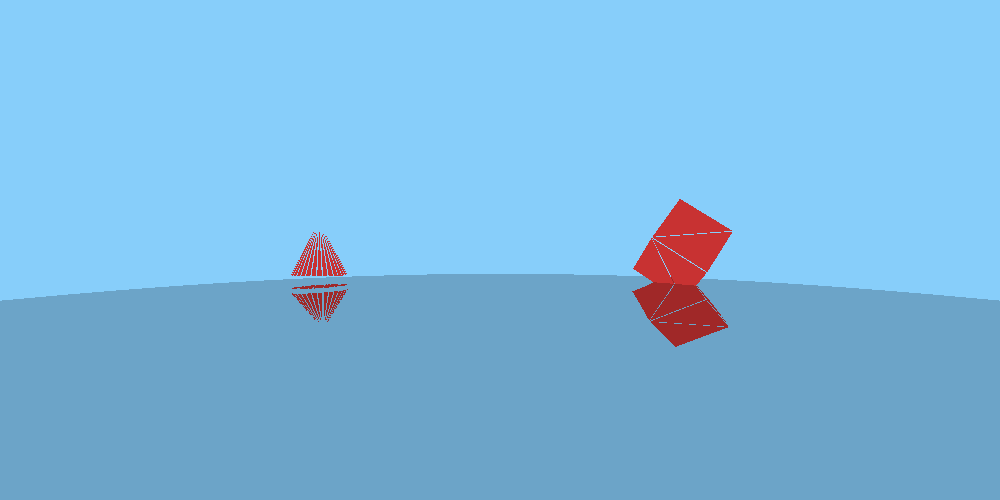
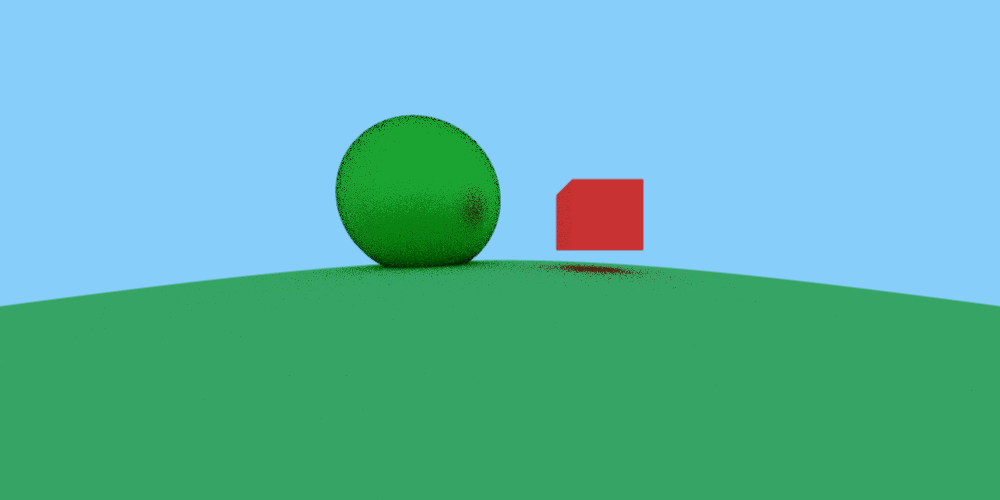
Normals extracted from obj file but mesh still does not scatter rays correctly + added fuzz to metal material

diff --git a/IK_Raytracer/IK_Raytracer/IK_Raytracer.cpp b/IK_Raytracer/IK_Raytracer/IK_Raytracer.cpp
@@ -26,7 +26,7 @@ int main()
     Image* perspective = new Image(scrWidth, scrHeight, 3);
 
     // Camera and rays settings
-    float fov = 45.0f;
+    float fov = 90.0f;
     Camera* cam = new Camera(vec3(0, 0, 10), vec3(0, 0, -1000), vec3(0, -1, 0), fov, float(scrWidth)/float(scrHeight));
 
     float pixelWidth = 2.0f / float(scrWidth);
@@ -41,12 +41,6 @@ int main()
     // Vector of hitable objects
     std::vector<Hitable*> hitables;
 
-    // Parser object which is used to assign vertices and indices of object to those vertices and indices given below
-    ObjParser parser;
-    std::vector<vec3> vertices, indices;
-
-    // Assigning vertices and indices;
-    parser.ParseFile("Cone.obj", vertices, indices);
 
     PointLight* point = new PointLight();
     point->location = vec3(0, 0, 0);
@@ -55,22 +49,31 @@ int main()
     point->constAttenuation = 3.0;
     point->quadAttenuation = 0.0001;
 
+    // Parser object which is used to assign vertices and indices of object to those vertices and indices given below
+    ObjParser parser;
+    std::vector<vec3> vertices, indices, normals, normalsFaces;
+
+    // Assigning vertices and indices;
+    parser.ParseFile("cubeBlend.obj", vertices, indices, normals, normalsFaces);
     // Mesh made from parsed obj file
-    Mesh* cube = new Mesh(vertices, indices, 0.5f, vec3(3, 0, 0), new Metal(vec3(0.8, 0.6, 0.2))); // 1. vertices of object 2. indices of object 3. scale 4. position
+    Mesh* cube = new Mesh(vertices, indices, normals, normalsFaces, 1.0f, vec3(-3, 1, 2), new Metal(vec3(0.8, 0.8, 0.8), 0.7)); // 1. vertices of object 2. indices of object 3. scale 4. position
     cube->addToWorld(&hitables);
     vertices.clear();
     indices.clear();
 
     // Second object creation:
-    parser.ParseFile("cone.obj", vertices, indices);
+    /*parser.ParseFile("cone.obj", vertices, indices);
 
     Mesh* cone = new Mesh(vertices, indices, 0.5f, vec3(-3, 0, 0), new Metal(vec3(0.8, 0.8, 0.8)));
     cone->addToWorld(&hitables);
     vertices.clear();
-    indices.clear();
+    indices.clear();*/
+
+    Hitable* sphere = new Sphere(vec3(3, 2, 0), 3, vec3(0, 0, 0), new Metal(vec3(0.2, 0.8, 0.2), 0.7));
+    hitables.push_back(sphere);
  
     // green sphere which simulates ground
-    Hitable* ground = new Sphere(vec3(0, -100.5, -1), 100, vec3(0, 154, 23), new Metal(vec3(0.8, 0.8, 0.8)));
+    Hitable* ground = new Sphere(vec3(0, -100.5, -1), 100, vec3(0, 154, 23), new Lambertian(vec3(0.4, 0.8, 0.4)));
     hitables.push_back(ground);
     std::cout << hitables.size() << std::endl;
     
@@ -96,7 +99,7 @@ int main()
             float vMin = v - (pixelHeight / 2);
             float vMax = v + (pixelHeight / 2);
 
-            if (isAntyalia)
+            if (isAntyalia == true)
                 finalColor = finalColor.Antialiasing(world, cam, fov, fov / 45.0f, false,
                     uMin, uMax, vMin, vMax, i, j, 0.50f,
                     std::vector<LightIntensity*>{nullptr, nullptr, nullptr, nullptr, nullptr});

diff --git a/IK_Raytracer/IK_Raytracer/ObjParser.cpp b/IK_Raytracer/IK_Raytracer/ObjParser.cpp
@@ -5,7 +5,7 @@ ObjParser::ObjParser()
 
 }
 
-void ObjParser::ParseFile(const std::string& path, std::vector<vec3>& vertices, std::vector<vec3>& faces)
+void ObjParser::ParseFile(const std::string& path, std::vector<vec3>& vertices, std::vector<vec3>& faces, std::vector<vec3>& normals, std::vector<vec3>& normalsFaces)
 {
     std::ifstream ifs(path);
     if (!ifs.is_open()) {
@@ -20,27 +20,36 @@ void ObjParser::ParseFile(const std::string& path, std::vector<vec3>& vertices, 
             ifs >> x >> y >> z;
             vertices.emplace_back(x, y, z);
         }
+        else if (buffer == "vn")
+        {
+            // format: vn x y z
+            float x, y, z;
+            ifs >> x >> y >> z;
+            normals.emplace_back(x, y, z);
+        }
         else if (buffer == "f") {
-            int x, y, z, t;
+            int x, y, z, n, t;
+            int nX, nY, nZ;
             std::string line;
             getline(ifs, line);
             if (line.find('/') != std::string::npos && (std::count(line.begin(), line.end(), '/') == 6 || std::count(line.begin(), line.end(), '/') == 8)) {
                 // format: f v1/vt1/vn1 v2/vt2/vn2 v3/vt3/vn3
-                sscanf_s(line.c_str(), " %d/%d/%d %d/%d/%d %d/%d/%d\n", &x, &t, &t, &y, &t, &t, &z, &t, &t);
+                sscanf_s(line.c_str(), " %d/%d/%d %d/%d/%d %d/%d/%d\n", &x, &t, &nX, &y, &t, &nY, &z, &t, &nZ);
             }
             else if (line.find('/') != std::string::npos && (std::count(line.begin(), line.end(), '/') == 3 || std::count(line.begin(), line.end(), '/') == 4)) {
                 // format: f v1/vn1 v2/vn2 v3/vn3
-                sscanf_s(line.c_str(), " %d/%d %d/%d %d/%d\n", &x, &t, &y, &t, &z, &t);
+                sscanf_s(line.c_str(), " %d/%d %d/%d %d/%d\n", &x, &nX, &y, &nY, &z, &nZ);
             }
             else if (line.find("//") != std::string::npos && (std::count(line.begin(), line.end(), '/') == 6 || std::count(line.begin(), line.end(), '/') == 8)) {
                 // format: f v1//vn1 v2//vn2 v3//vn3
-                sscanf_s(line.c_str(), " %d//%d %d//%d %d//%d\n", &x, &t, &y, &t, &z, &t);
+                sscanf_s(line.c_str(), " %d//%d %d//%d %d//%d\n", &x, &nX, &y, &nY, &z, &nZ);
             }
             else {
                 // format: f v1 v2 v3
                 sscanf_s(line.c_str(), " %d %d %d\n", &x, &y, &z);
             }
             faces.emplace_back(x - 1, y - 1, z - 1);
+            normalsFaces.emplace_back(nX - 1, nY - 1, nZ - 1);
         }
     }
     ifs.close();

diff --git a/IK_Raytracer/IK_Raytracer/LightIntensity.cpp b/IK_Raytracer/IK_Raytracer/LightIntensity.cpp
@@ -211,7 +211,7 @@ LightIntensity operator*(float num, LightIntensity& li)
 LightIntensity LightIntensity::GetColorFromRay(const Ray& r, Hitable* world, int depth)
 {
 	hitRecord rec;
-	if (world->hit(r, 0.01, 100, rec) == true) // (r, 0.0, 100, rec) // change second paremetere (0.01) to sth like 0.00001 to fix mesh but fuck up sphere
+	if (world->hit(r, 0.001, 100, rec)) // (r, 0.0, 100, rec) // change second paremetere (0.01) to sth like 0.00001 to fix mesh but fuck up sphere
 	{
 		Ray scattered;
 		vec3 attenuation;
@@ -221,26 +221,23 @@ LightIntensity LightIntensity::GetColorFromRay(const Ray& r, Hitable* world, int
 		}
 		else
 		{
-			return LightIntensity(200, 50, 50);
+			//return LightIntensity(0, 0, 0);
+			return LightIntensity(rec.hitColor.e[0], rec.hitColor.e[1], rec.hitColor.e[2]);
 		}
-		//return LightIntensity(rec.hitColor.e[0], rec.hitColor.e[1], rec.hitColor.e[2]);
-		// 
+		
 		// Return light sources calculated color
-		//LightIntensity result;
-		//for (Light* l : lightArray)
-		//{
-		//	vec3 res = l->getDiffuse(vec3(0.0f, 0.0f, 0.0f), rec.p);
-		//	result = LightIntensity(res.x(), res.y(), res.z());
-		//}
-		//return LightIntensity(result.getRed() + rec.hitColor.e[0], result.getGreen() + rec.hitColor.e[1], result.getBlue() + rec.hitColor.e[2]);
+		LightIntensity result;
+		/*for (Light* l : lightArray)
+		{
+			vec3 res = l->getDiffuse(vec3(0.0f, 0.0f, 0.0f), rec.p);
+			result = LightIntensity(res.x(), res.y(), res.z());
+		}
+		return LightIntensity(std::sqrt(result.getRed() + rec.hitColor.e[0]), 
+							  std::sqrt(result.getGreen() + rec.hitColor.e[1]), 
+							  std::sqrt(result.getBlue() + rec.hitColor.e[2]));*/
 	}
 	else
 	{
-		/*vec3 unitDirection = unit_vector(r.direction());
-		float t = 0.5 * (unitDirection.y() + 1.0);
-		LightIntensity result = LightIntensity(1.0, 1.0, 1.0) * (1.0 - t) + LightIntensity(0.5, 0.7, 1.0) * t;
-		return LightIntensity(result.getRed() * 255.99, result.getGreen() * 255.99, result.getBlue() * 255.99);*/
-
 		return LightIntensity(135, 206, 250);
 	}
 }

diff --git a/IK_Raytracer/IK_Raytracer/Triangle.h b/IK_Raytracer/IK_Raytracer/Triangle.h
@@ -10,6 +10,7 @@ class Triangle : public Hitable
 {
 public:
 	vec3 tA, tB, tC;
+	vec3 nX;
 	bool _hit = false;
 	vec3 color;
 
@@ -17,7 +18,12 @@ public:
 	Material* triangleMaterial;
 
 	Triangle() : tA(1, 0, 0), tB(0, 1, 0), tC(0, 0, 1){}
-	Triangle(const vec3 _a, const vec3 _b, const vec3 _c, vec3 col, Material* triMaterial) : tA(_a), tB(_b), tC(_c), color(col), triangleMaterial(triMaterial){}
+	Triangle(const vec3 _a, const vec3 _b, const vec3 _c, 
+			 const vec3 _nX,
+			 vec3 col, Material* triMaterial) 
+			: tA(_a), tB(_b), tC(_c), 
+			  nX(_nX), 
+			  color(col), triangleMaterial(triMaterial){}
 	~Triangle();
 
 	vec3 getTriangleNormal() const
@@ -36,6 +42,22 @@ public:
 		return normal;
 	}
 
+	virtual vec3 getNormalAt(vec3 point) const
+	{
+		vec3 normal = vec3(0, 0, 0);
+		vec3 CA(tC.e[0] - point.e[0],
+				tC.e[1] - point.e[1],
+				tC.e[2] - point.e[2]);
+
+		vec3 BA(tB.e[0] - point.e[0],
+				tB.e[1] - point.e[1],
+				tB.e[2] - point.e[2]);
+
+		normal = normalize(cross(CA, BA));
+
+		return normal;
+	}
+
 	double getTriangleDistance() const
 	{
 		vec3 normal = vec3(0, 0, 0);
@@ -47,13 +69,6 @@ public:
 		return distance;
 	}
 
-	virtual vec3 getNormalAt(vec3 point) const
-	{
-		vec3 normal = vec3(0, 0, 0);
-		normal = getTriangleNormal();
-
-		return normal;
-	}
 
 	bool hit(const Ray& ray, float tMin, float tMax, hitRecord& rec) const
 	{
@@ -122,7 +137,7 @@ public:
 				// inside triangle
 				rec.t = -1 * b / a;
 				rec.p = Q;
-				rec.normal = normal;
+				rec.normal = getNormalAt(Q);
 				rec.hitColor = color;
 				rec.materialPtr = triangleMaterial;
 

diff --git a/IK_Raytracer/IK_Raytracer/Mesh.cpp b/IK_Raytracer/IK_Raytracer/Mesh.cpp
@@ -1,9 +1,11 @@
 #include "Mesh.h"
 
-Mesh::Mesh(std::vector<vec3> meshVert, std::vector<vec3> meshIndi, float scl, vec3 pos, Material* mMaterial)
+Mesh::Mesh(std::vector<vec3> meshVert, std::vector<vec3> meshIndi, std::vector<vec3> meshNormals, std::vector<vec3> meshNormalsFaces, float scl, vec3 pos, Material* mMaterial)
 {
 	vertices = meshVert;
 	indices = meshIndi;
+	normals = meshNormals;
+	normalsFaces = meshNormalsFaces;
 	position = pos;
 	meshMaterial = mMaterial;
 
@@ -11,10 +13,12 @@ Mesh::Mesh(std::vector<vec3> meshVert, std::vector<vec3> meshIndi, float scl, ve
 
 	for (int i = 0; i < indices.size(); i++)
 	{
-		Hitable* meshTriangle = new Triangle(vertices.at(indices.at(i).x()) * scale - position,
-							vertices.at(indices.at(i).y()) * scale - position,
-							vertices.at(indices.at(i).z()) * scale - position, 
-							vec3(200, 50, 50), meshMaterial);
+		Hitable* meshTriangle = new Triangle(vertices.at(indices.at(i).x()) * scale + position,
+											 vertices.at(indices.at(i).y()) * scale + position,
+											 vertices.at(indices.at(i).z()) * scale + position,
+
+											 normals.at(normalsFaces.at(i).y()) * scale + position,
+											 vec3(200, 50, 50), meshMaterial);
 		mesh.push_back(meshTriangle);
 	}
 }

diff --git a/IK_Raytracer/IK_Raytracer/Material.h b/IK_Raytracer/IK_Raytracer/Material.h
@@ -1,8 +1,31 @@
 #pragma once
 #include "Hitable.h"
+#include <random>
 class Material
 {
 public:
 	virtual bool scatter(const Ray& r_in, const hitRecord& rec, vec3& attenuation, Ray& scattered) const = 0;
+
+	vec3 randomInUnitSphere() const
+	{
+		vec3 p;
+		do
+		{
+			p = 2.0 * vec3(randomFloat(), randomFloat(), randomFloat()) - vec3(1, 1, 1);
+		} while (p.squared_length() >= 1.0f);
+
+		return p;
+	}
+
+	double randomFloat() const
+	{
+		double result;
+		std::random_device rd;
+		std::default_random_engine eng(rd());
+		std::uniform_real_distribution<> distr(0, 2);
+
+		result = distr(eng) / 2.0f;
+		return result;
+	}
 };
 

diff --git a/IK_Raytracer/IK_Raytracer/Metal.h b/IK_Raytracer/IK_Raytracer/Metal.h
@@ -4,11 +4,22 @@ class Metal : public Material
 {
 public:
 	vec3 albedo;
-	Metal(const vec3& a) : albedo(a){}
+	float fuzz;
+	Metal(const vec3& a, float f) : albedo(a)
+	{
+		if (f < 1.0f)
+		{
+			fuzz = f;
+		}
+		else
+		{
+			fuzz = 1;
+		}
+	}
 	virtual bool scatter(const Ray& r_in, const hitRecord& rec, vec3& attenuation, Ray& scattered) const
 	{
 		vec3 reflected = reflect(unit_vector(r_in.direction()), rec.normal);
-		scattered = Ray(rec.p, reflected);
+		scattered = Ray(rec.p, reflected + fuzz * randomInUnitSphere());
 		attenuation = albedo;
 		return (dot(scattered.direction(), rec.normal) > 0);
 	}

diff --git a/IK_Raytracer/IK_Raytracer/Mesh.h b/IK_Raytracer/IK_Raytracer/Mesh.h
@@ -8,13 +8,15 @@ class Mesh
 public:
 	std::vector<vec3> vertices;
 	std::vector<vec3> indices;
+	std::vector<vec3> normals;
+	std::vector<vec3> normalsFaces;
 	std::vector<Hitable*> mesh;
 	Material* meshMaterial;
 
 	vec3 position = vec3(0.0, 0.0, 0.0);
 	float scale;
 
-	Mesh(std::vector<vec3> meshVert, std::vector<vec3> meshIndi, float scl, vec3 pos, Material* mMaterial);
+	Mesh(std::vector<vec3> meshVert, std::vector<vec3> meshIndi, std::vector<vec3> meshNormals, std::vector<vec3> meshNormalsFaces, float scl, vec3 pos, Material* mMaterial);
 	~Mesh();
 
 	void setScale(float scl);

diff --git a/IK_Raytracer/IK_Raytracer/Lambertian.h b/IK_Raytracer/IK_Raytracer/Lambertian.h
@@ -8,7 +8,7 @@ public:
 	Lambertian(const vec3& a) : albedo(a){}
 	virtual bool scatter(const Ray& r_in, const hitRecord& rec, vec3& attenuation, Ray& scattered) const
 	{
-		vec3 target = rec.p + rec.normal; //+ randomInUnitSphere();
+		vec3 target = rec.p + rec.normal + Material::randomInUnitSphere();
 		scattered = Ray(rec.p, target - rec.p);
 		attenuation = albedo;
 		return true;

diff --git a/IK_Raytracer/IK_Raytracer/ObjParser.h b/IK_Raytracer/IK_Raytracer/ObjParser.h
@@ -9,7 +9,7 @@ class ObjParser
 {
 public:
 	ObjParser();
-	static void ParseFile(const std::string& path, std::vector<vec3>& vertices, std::vector<vec3>& faces);
+	static void ParseFile(const std::string& path, std::vector<vec3>& vertices, std::vector<vec3>& faces, std::vector<vec3>& normals, std::vector<vec3>& normalsFaces);
 
 };
 
